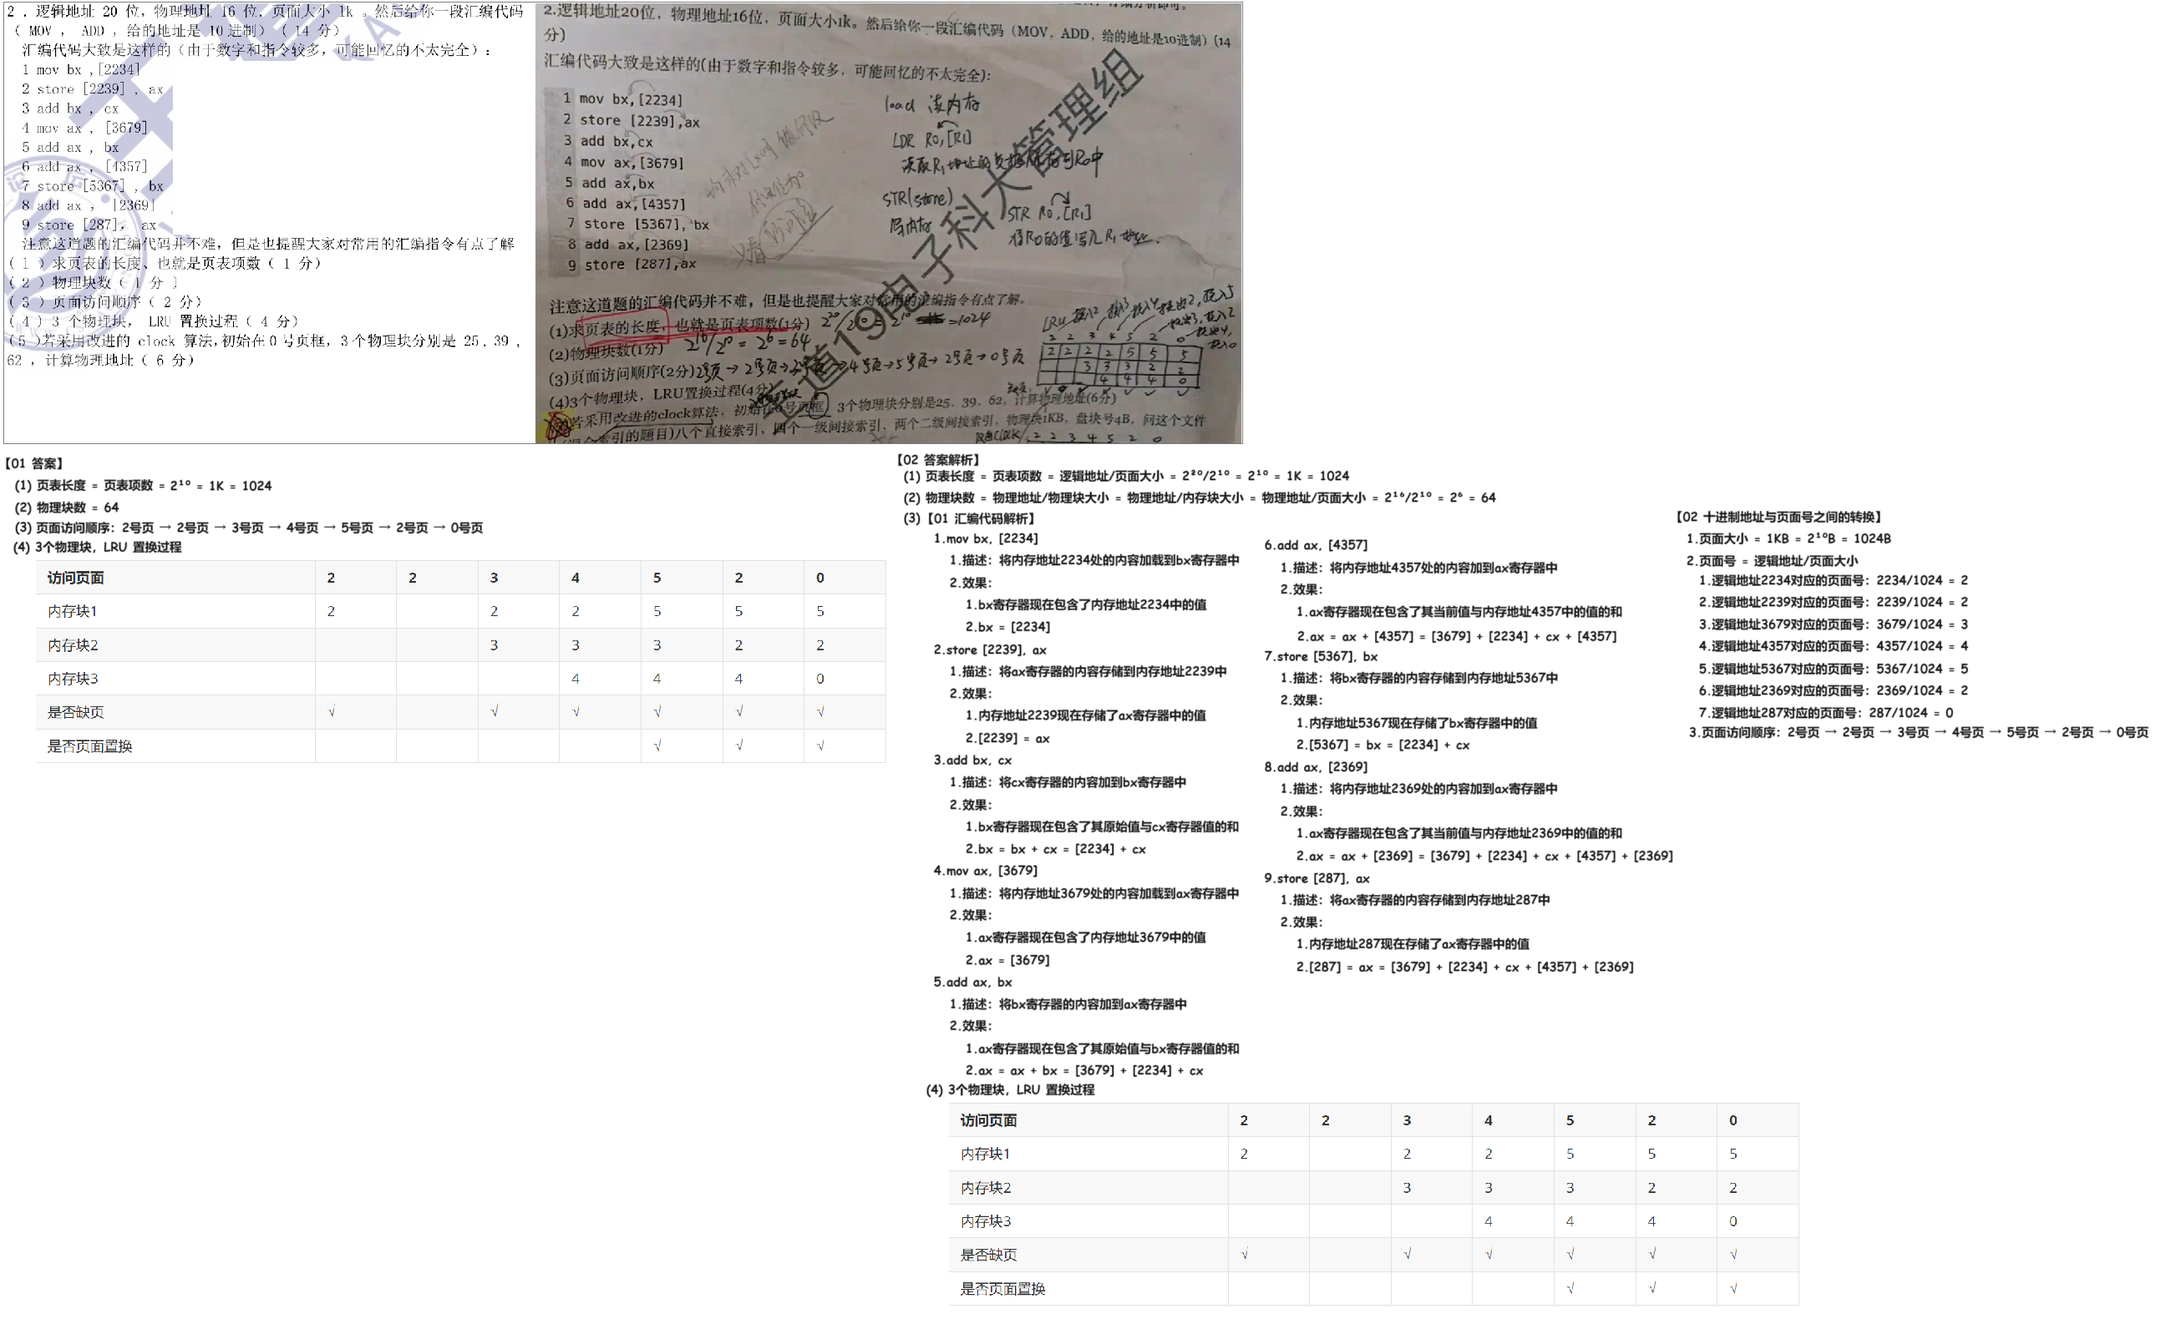
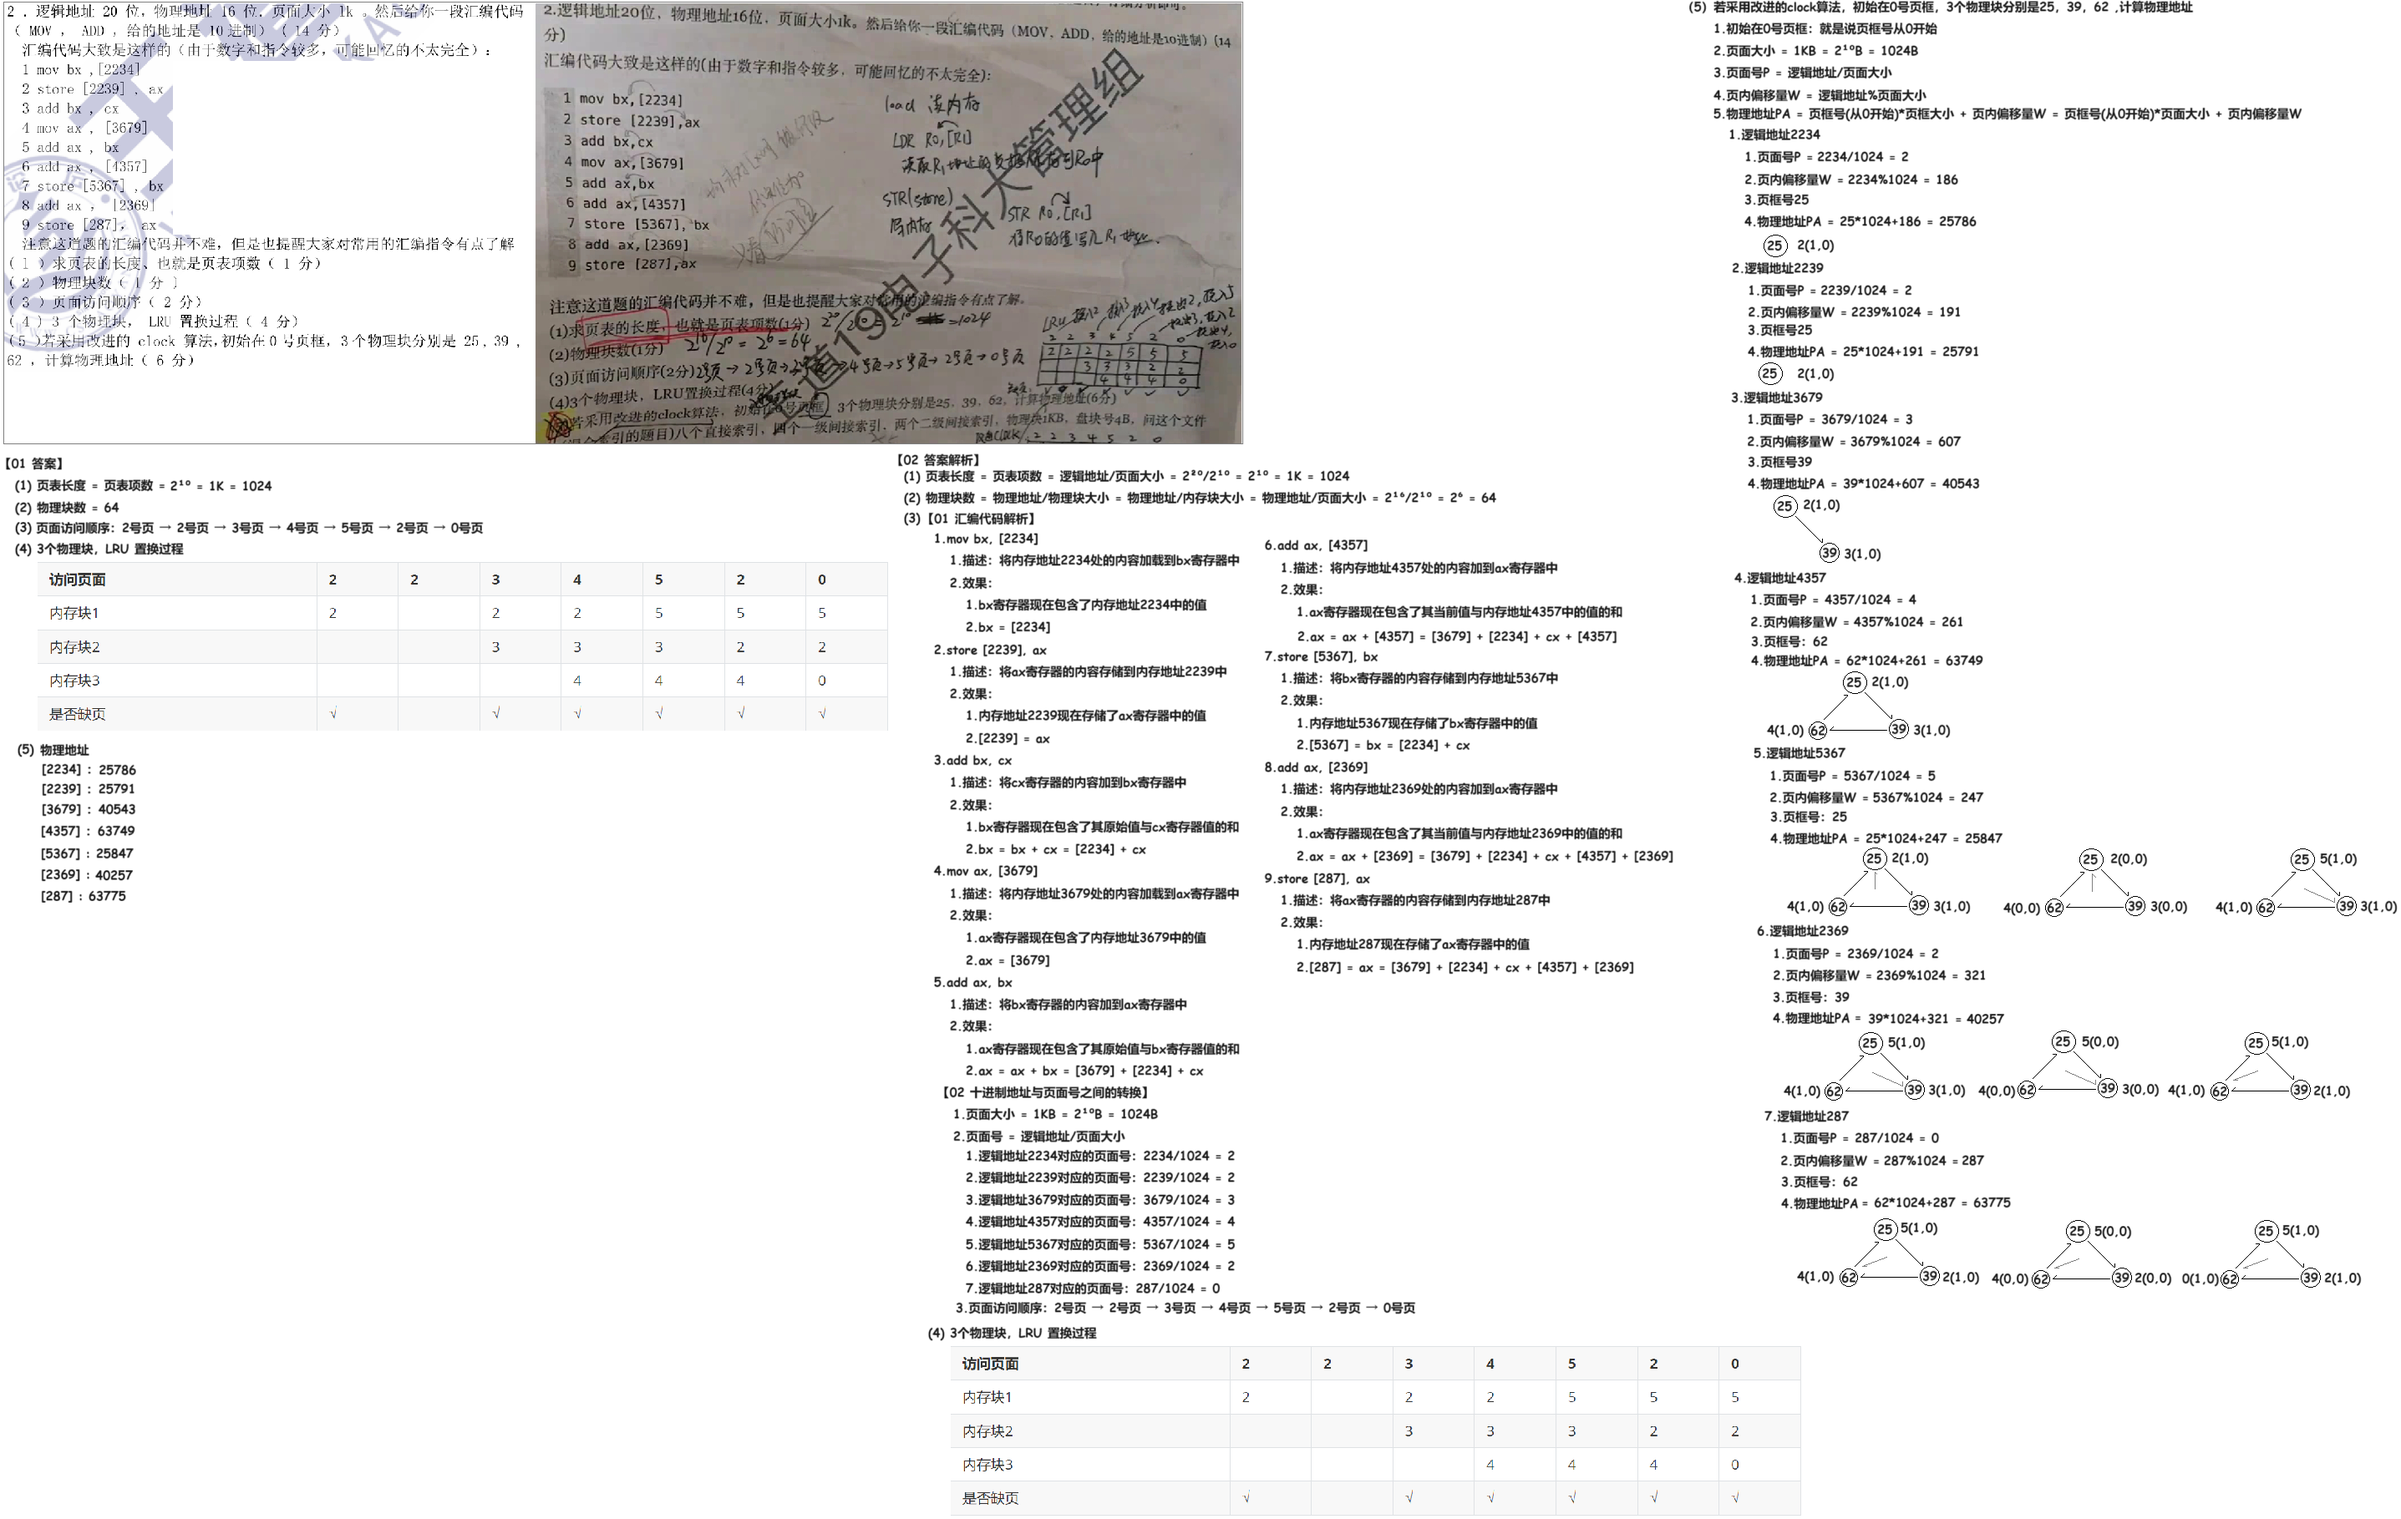
240708

diff --git a/01 初试/01 OS/01 题集/01 820 54 = 9 + 5 +10 +14 +16/02 19 5 = 3 + 2/02 大题 2/01 计算题 2/01 计算题02 汇编代码 LRU置换算法 改进型CLOCK置换算法 240806/02 Doc.md b/01 初试/01 OS/01 题集/01 820 54 = 9 + 5 +10 +14 +16/02 19 5 = 3 + 2/02 大题 2/01 计算题 2/01 计算题02 汇编代码 LRU置换算法 改进型CLOCK置换算法 240806/02 Doc.md
@@ -1,6 +1,6 @@
 # 00 背诵
 
-<img src="https://cvp.oss-cn-shanghai.aliyuncs.com/picgo/202408071131910.png" alt="image-20240807113156341" style="zoom:67%;" />
+<img src="https://cvp.oss-cn-shanghai.aliyuncs.com/picgo/202408071203372.png" alt="image-20240807120301837" style="zoom:50%;" />
 
 
 
@@ -12,11 +12,7 @@
 
 # 02 答案
 
-
-
-
-
-
+<img src="https://cvp.oss-cn-shanghai.aliyuncs.com/picgo/202408071630313.png" alt="image-20240807163038912" style="zoom:50%;" />
 
 
 
